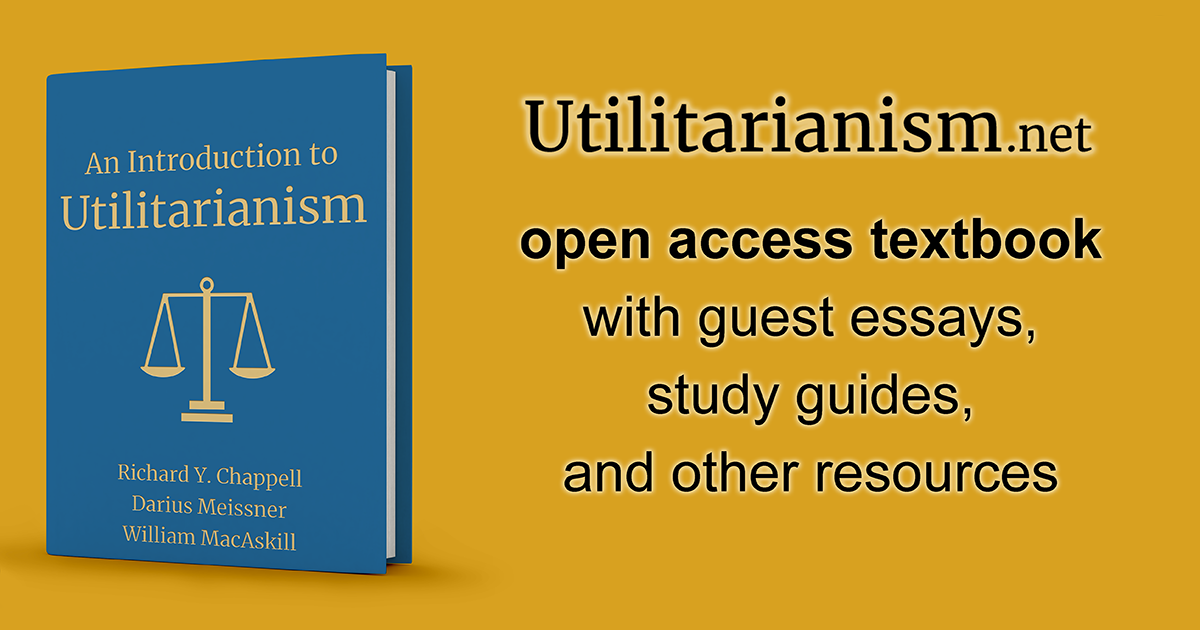
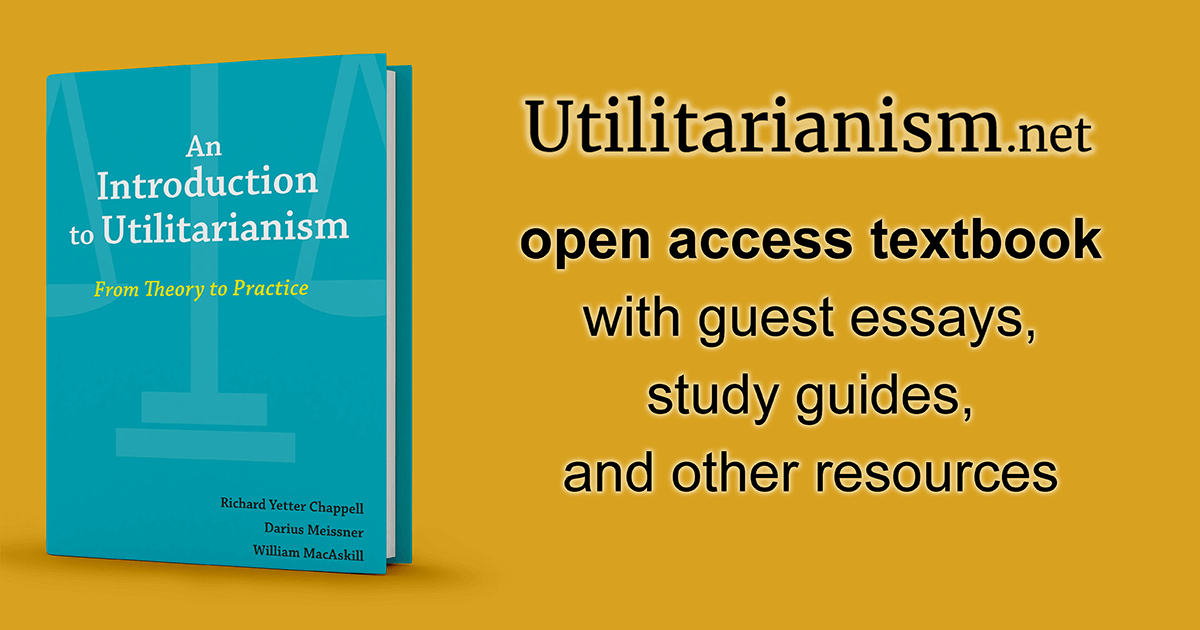
add link to the print edition of the book (#139)
* add link to the print edition of the book

* link to book from homepage

* move book link above book outline

* social image correct book cover

* svg for book cover

Changed region(s): [[0.0308, 0.0603, 0.37, 0.9349]]

diff --git a/assets/scss/unsorted.scss b/assets/scss/unsorted.scss
@@ -135,60 +135,6 @@ h1 {
   margin: 10px;
 }
 
-.books {
-  column-gap: 30px;
-  display: flex;
-  flex-wrap: wrap;
-  row-gap: 30px;
-
-  .book {
-    border-radius: 5px;
-    height: 415px;
-    overflow: hidden;
-    position: relative;
-    width: 260px;
-
-    font-size: 1vw; // hack to make the box-shadow stay proportional on screen resize
-    box-shadow: 0.3em 1em 1.5em rgba(0, 0, 0, 0.3);
-
-    transition-property: transform;
-    transition-duration: 500ms;
-
-    &:hover {
-      transform: scale(1.05)
-    }
-
-    img {
-      display: block;
-    }
-
-    .clickable {
-      height:100%;
-      left: 0;
-      position:absolute;
-      top:0;
-      width:100%;
-      z-index: 1;
-    }
-
-    .book-overlay {
-      background: linear-gradient(90deg, rgba(0, 0, 0, 0.1) 0%, rgba(0, 0, 0, 0.3) 1%, rgba(255,255,255,.4) 2%, rgba(255, 255, 255, 0.5) 4%, rgba(0,0,0,.3) 6%, rgba(255,255,255,.4) 10%, rgba(255,255,255,0) 100%);
-      box-sizing: border-box;
-      height: 100%;
-      opacity: 0.2;
-      position: absolute;
-      width:100%;
-    }
-  }
-}
-
-.book-outline {
-  .book {
-    box-sizing: border-box;
-    border: 1px solid $gray-ddd;
-  }
-}
-
 .read-more {
   text-align: right;
   transform: translate(-30px, 0px);

diff --git a/assets/scss/book.scss b/assets/scss/book.scss
@@ -1,0 +1,61 @@
+.books {
+  column-gap: 30px;
+  display: flex;
+  flex-wrap: wrap;
+  row-gap: 30px;
+
+  .book {
+    border-radius: 5px;
+    height: 415px;
+    overflow: hidden;
+    position: relative;
+    width: 260px;
+
+    font-size: 1vw; // hack to make the box-shadow stay proportional on screen resize
+    box-shadow: 0.3em 1em 1.5em rgba(0, 0, 0, 0.3);
+
+    transition-property: transform;
+    transition-duration: 500ms;
+
+    &:hover {
+      transform: scale(1.05)
+    }
+
+    img {
+      display: block;
+      max-width: 100%;
+    }
+
+    .clickable {
+      height: 100%;
+      left: 0;
+      position: absolute;
+      top: 0;
+      width: 100%;
+      z-index: 1;
+    }
+
+    .book-overlay {
+      background: linear-gradient(90deg, rgba(0, 0, 0, 0.1) 0%, rgba(0, 0, 0, 0.3) 1%, rgba(255,255,255,.4) 2%, rgba(255, 255, 255, 0.5) 4%, rgba(0,0,0,.3) 6%, rgba(255,255,255,.4) 10%, rgba(255,255,255,0) 100%);
+      box-sizing: border-box;
+      height: 100%;
+      opacity: 0.2;
+      position: absolute;
+      width:100%;
+    }
+  }
+}
+
+.book-outline {
+  .book {
+    box-sizing: border-box;
+    outline: 1px solid $gray-ddd;
+  }
+}
+
+.small-book {
+  .book {
+    height: 223px;
+    width: 140px;
+  }
+}

diff --git a/content/en/books/_index.html b/content/en/books/_index.html
@@ -54,6 +54,12 @@ title: "Utilitarian Books"
 
 <div class="books book-outline">
   {{< book
+    image="/img/books/utilitarianism.svg"
+    text="An Introduction to Utilitarianism (2024)"
+    link="https://hackettpublishing.com/introduction-to-utilitarianism"
+  >}}
+
+  {{< book
     image="/img/books/moral-tribes.jpg"
     text="Joshua Greene - Moral Tribes (2013)"
     link="https://www.joshua-greene.net/moral-tribes"

diff --git a/assets/scss/lol.scss b/assets/scss/lol.scss
@@ -12,6 +12,7 @@ $breakpoint-tablet: 850px;
 @import "glossary";
 @import "buttons";
 @import "footnotes";
+@import "book";
 @import "unsorted";
 @import "audio";
 @import "search";

diff --git a/content/en/_index.md b/content/en/_index.md
@@ -36,7 +36,23 @@ The original and most influential version of utilitarianism is _classical utilit
 
 ## An Introduction to Utilitarianism: An Online Textbook
 
+<div class="books small-book" style="margin-bottom: 30px">
+
+  <div style="flex: 1">
+
 This website aims to provide a concise, accessible and engaging introduction to modern utilitarianism, functioning as an online textbook targeted at the undergraduate level. The content of this website aims to be understandable to a broad audience, avoiding philosophical jargon where possible and providing definitions where necessary.
+
+A print edition of this textbook is [available from Hackett Publishing](https://hackettpublishing.com/introduction-to-utilitarianism)
+
+  </div>
+
+  {{< book
+    image="/img/books/utilitarianism.svg"
+    text="An Introduction to Utilitarianism (2024)"
+    link="https://hackettpublishing.com/introduction-to-utilitarianism"
+  >}}
+
+</div>
 
 {{< index-navigation >}}
 

diff --git a/content/en/textbook.md b/content/en/textbook.md
@@ -7,8 +7,24 @@ author: "Richard Yetter Chappell, Darius Meissner, and William MacAskill"
 date: 2023-01-29
 ---
 
+<div class="books" style="margin-bottom: 30px">
+
+  <div style="flex: 1">
+
 This is an online textbook aiming to provide a concise, accessible, and engaging introduction to modern utilitarianism, targeted at the undergraduate level.
 
+A print edition of this textbook is [available from Hackett Publishing](https://hackettpublishing.com/introduction-to-utilitarianism).
+
 For a high-school level introduction, see [Utilitarianism: Simply Explained](/utilitarianism-for-high-school-students/).
+
+  </div>
+
+  {{< book
+    image="/img/books/utilitarianism.svg"
+    text="An Introduction to Utilitarianism (2024)"
+    link="https://hackettpublishing.com/introduction-to-utilitarianism"
+  >}}
+
+</div>
 
 {{< textbook-contents >}}
